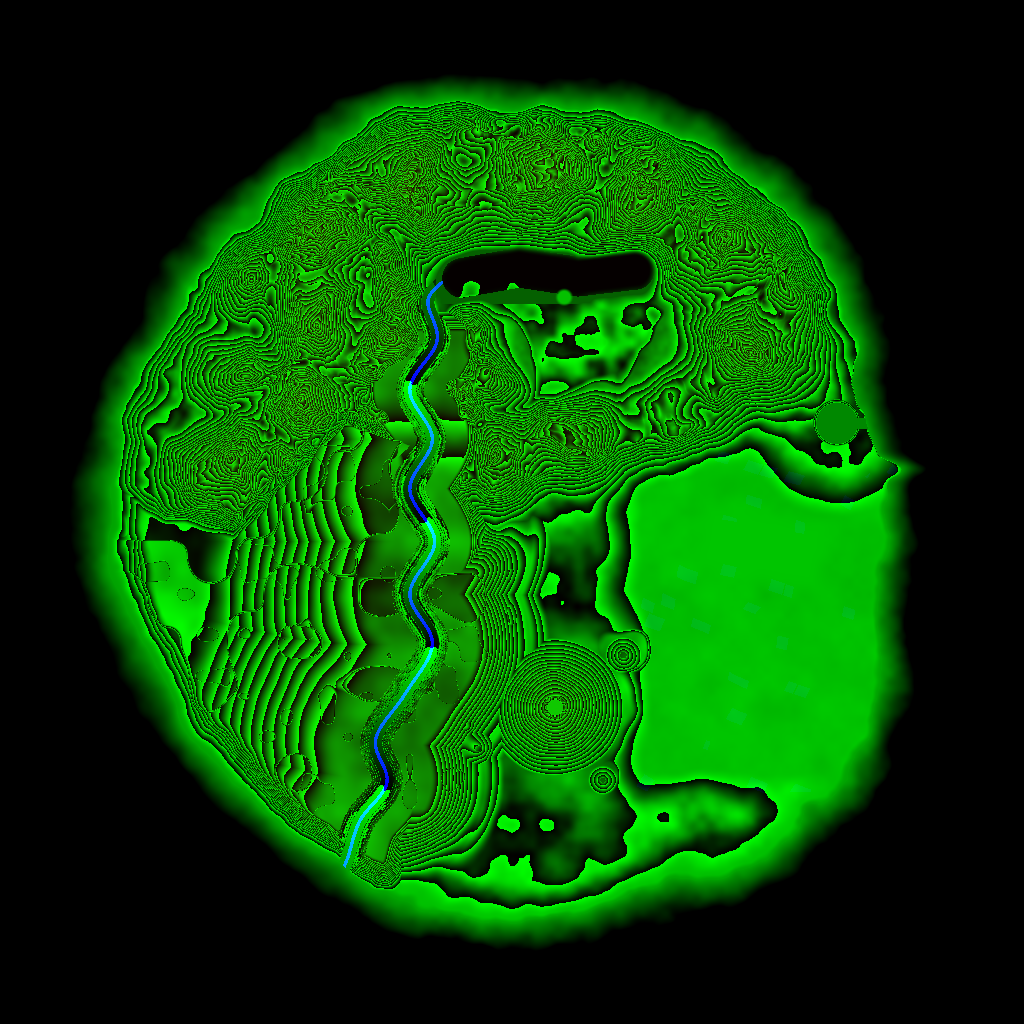
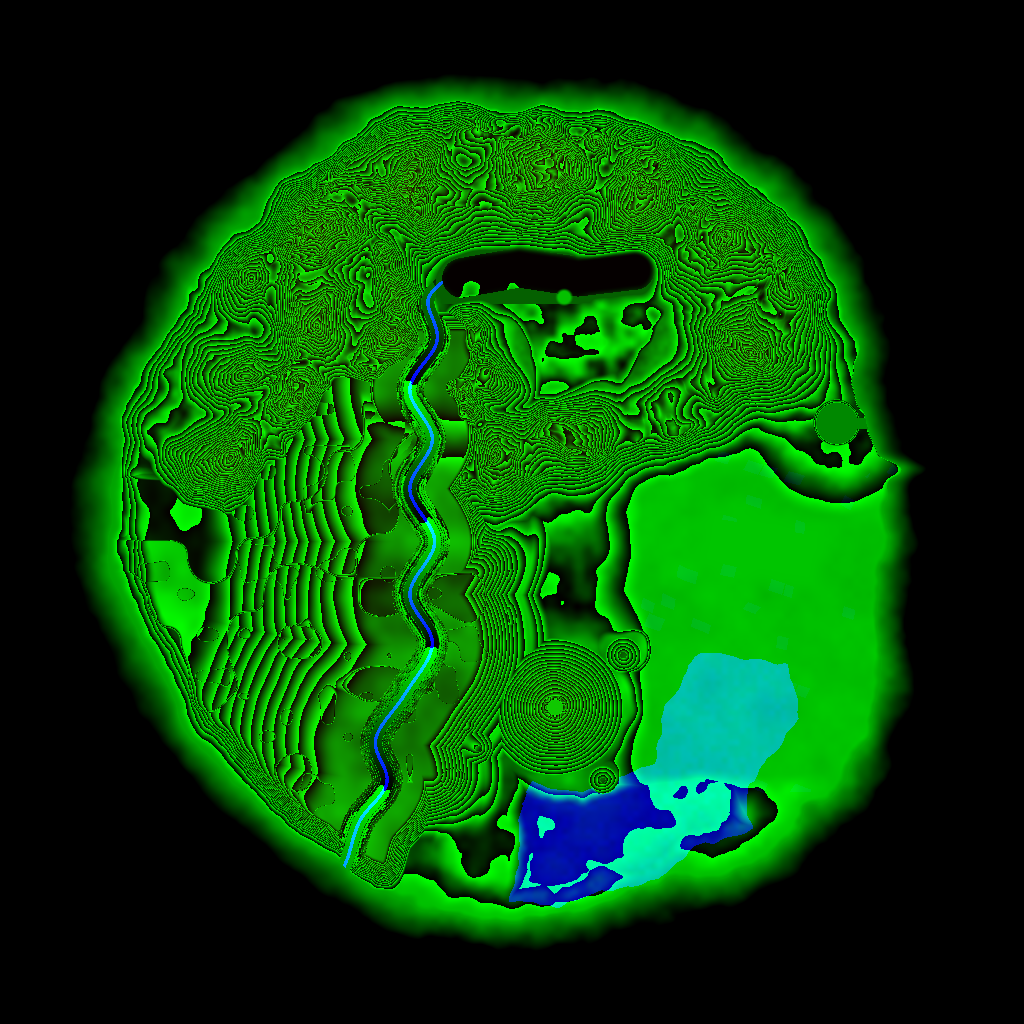
The owner's mark-up: no gap at the crest, one lava flow, the redwoods
The plateau now runs on north under the mountains' feet, so the two meet
with no trough or wall: the plateau leads up to the mountains and they
slope down onto it. One lava flow, down the volcano's west side, fanning
into three running streams at the sea. The redwoods fill the ground the
owner ringed, south and east of the volcano, 300 ft tall, on gentle
ground with no bank at the tree line. Forests are painted as trees: a
field of crowns on top, trunks under the canopy at the edges.

Claude-Session: https://claude.ai/code/session_01YZtgbdpC85BipirPAJzuos

Changed region(s): [[0.375, 0.625, 0.7812, 0.9062], [0.0938, 0.3438, 0.4062, 0.5312]]

diff --git a/tests/island.test.js b/tests/island.test.js
@@ -167,7 +167,9 @@ test('island: the desert, its crest, the volcano and its lava lake, the cove and
     }
     assert.equal(last, 0, 'the flow reaches the sea');
   }
-  assert.equal(island.lavaAt(volcano.north - 3000, volcano.east + 3200), null, 'no lava off the flows');
+  assert.equal(region.flows.length, 3, 'one flow, in three streams');
+  assert.ok(region.flows.every((course) => course[course.length - 1][1] < volcano.east), 'down the west side');
+  assert.equal(island.lavaAt(volcano.north - 3000, volcano.east + 3200), null, 'no lava down the east side');
   // The cove: water a mile across, cliffs round it, its mouth open to the sea in the east.
   let across = 0;
   for (let e = cove.east - 1500; e < cove.east + 1500; e += 20) if (island.waterAt(cove.north + 300, e) === 0) across += 20;
@@ -326,7 +328,7 @@ test('island: with crashes on, flying into a mountain ends the flight; a scrape,
 test('island: with crashes on, any touch of the sea, the loch, the river or the lava ends the flight, however gentle', () => {
   const card = deriveCard(F4C);
   const river = region.river[30], bed = island.heightAt(river[0], river[1]);
-  const stream = region.flows[0][7];   // well down the western flow, on the low ground
+  const stream = region.flows[1][9];   // well down the middle stream, on the low ground
   const places = [
     ['the sea', { north: -22000, east: 0, feet: 12 }, 'water', 0],
     ['the loch', { north: castle.north + 800, east: castle.east - 1500, feet: loch.level / FT + 12 }, 'water', loch.level],
@@ -355,27 +357,35 @@ function nearestWood() {
   for (let r = 0; r < region.size; r++) for (let c = 0; c < region.size; c++) {
     if (!woods[r * region.size + c]) continue;
     const north = region.north0 - r * region.post, east = region.east0 + c * region.post, far = Math.hypot(north - base.north, east - (base.east - 4000));
-    if (woods[r * region.size + c] !== RIVER && (!best || far < best.far)) best = { north, east, far };
+    if (woods[r * region.size + c] * region.canopyStep < 30 && (!best || far < best.far)) best = { north, east, far };   // a farmland wood, not the river's mark or the redwoods
   }
   return best;
 }
 
-test('island: woods stand 40 feet tall, in the farmland, and keep off the airfield', () => {
+test('island: woods stand 40 feet tall in the farmland; the redwoods stand about 300 feet, south and east of the volcano', () => {
   const tall = island.canopyAt(wood.north, wood.east);
-  let posts = 0, onField = 0, elsewhere = 0, farmland = 0;
-  for (const { north, east, post } of land()) {
-    const farm = island.countryAt(north, east).farm > 0.5;
-    if (farm) farmland++;
+  let posts = 0, onField = 0, elsewhere = 0, farmland = 0, giants = 0, tallest = 0, shortest = Infinity, onLava = 0, north = -Infinity;
+  for (const { north: n, east: e, post } of land()) {
+    const kind = island.countryAt(n, e);
+    if (kind.farm > 0.5) farmland++;
     if (!woods[post] || woods[post] === RIVER) continue;
-    posts++;
-    if (onAirfield(base, north, east, 300)) onField++;
-    if (!farm) elsewhere++;
+    const trees = woods[post] * region.canopyStep;
+    if (onAirfield(base, n, e, 300)) onField++;
+    if (trees > 30) {
+      giants++; tallest = Math.max(tallest, trees); shortest = Math.min(shortest, trees); north = Math.max(north, n);
+      if (kind.lava > 0.5) onLava++;
+    } else { posts++; if (kind.farm < 0.5) elsewhere++; }
   }
-  console.log(`  Woods: ${(tall / FT).toFixed(0)} ft tall, ${((100 * posts) / farmland).toFixed(1)}% of the farmland`);
+  const sqMiles = (giants * region.post ** 2) / NM ** 2;
+  console.log(`  Woods: ${(tall / FT).toFixed(0)} ft tall, ${((100 * posts) / farmland).toFixed(1)}% of the farmland. Redwoods: ${Math.round(shortest / FT)} to ${Math.round(tallest / FT)} ft tall, ${sqMiles.toFixed(0)} square miles`);
   assert.ok(Math.abs(tall / FT - 40) < 1);
   assert.ok(posts / farmland > 0.02 && posts / farmland < 0.1);
-  assert.equal(onField, 0, 'none on the airfield or off the runway\'s ends');
+  assert.equal(onField, 0, 'no trees on the airfield or off the runway\'s ends');
   assert.ok(elsewhere / posts < 0.02, 'the farmland\'s woods are in the farmland');
+  assert.ok(shortest / FT > 240 && tallest / FT < 310 && sqMiles > 12 && sqMiles < 40, 'a forest of giants');
+  assert.equal(onLava, 0, 'none on the lava');
+  assert.ok(north < base.north - 3500, 'the redwoods stay south of the base');
+  assert.ok(island.canopyAt(-13000, 7000) > 60 && island.canopyAt(-9500, 9500) > 60, 'they fill the ground south and east of the volcano');
 });
 
 test('island: a wood is solid at its treetops, and the radar altimeter reads to them', () => {

diff --git a/src/render/terrain.js b/src/render/terrain.js
@@ -137,6 +137,29 @@ const fragmentShader = `${LAND_GLSL}
     c += vec3(1.0, 0.96, 0.82) * flash;
     return mix(c, haze, 0.4 * pow(1.0 - max(v.y, 0.0), 5.0));
   }
+  // A forest, made of trees. From above, its top is a field of round crowns, each its own green, with dark gaps
+  // between; on its steep sides, the edge of the wood, trunks stand in the shade under the crowns. "tall" is
+  // how tall the trees are here, "up" how high this point is above the ground, "slope" how steep the face is.
+  vec3 forest(float tall, float up, float slope, float far) {
+    float size = tall > 40.0 ? 24.0 : 11.0;                   // a crown's width: redwoods are big trees
+    vec2 cell = floor(wp.xz / size), best = vec2(9.0, 0.0);
+    for (int j = -1; j <= 1; j++) for (int i = -1; i <= 1; i++) {
+      vec2 k = cell + vec2(float(i), float(j));
+      float d = distance(wp.xz / size, k + 0.5 + 0.7 * (vec2(rand(k, 51.0), rand(k, 52.0)) - 0.5));
+      if (d < best.x) best = vec2(d, rand(k, 53.0));
+    }
+    vec3 dark = tall > 40.0 ? vec3(0.071, 0.196, 0.118) : vec3(0.110, 0.243, 0.125);
+    vec3 crown = mix(dark * 1.9, dark * 2.9 + vec3(0.02, 0.04, 0.0), best.y);          // each tree its own green
+    crown *= 1.0 - 0.35 * smoothstep(0.15, 0.55, best.x);                                // rounder: darker toward its rim
+    vec3 top = mix(dark, crown, 1.0 - smoothstep(0.5, 0.62, best.x));                    // dark between the crowns
+    top = mix(top, dark * 2.1, smoothstep(2500.0, 9000.0, far));                         // far off, one even green
+    if (slope < 0.7) return top;
+    // The side of the wood: trunks below, the crowns' skirt above.
+    float along = dot(wp.xz, vec2(0.71, 0.71)) / (size * 0.42), trunk = step(0.62, fract(along + 0.3 * rand(vec2(floor(along), 0.0), 54.0)));
+    vec3 bole = tall > 40.0 ? vec3(0.416, 0.243, 0.169) : vec3(0.290, 0.227, 0.165);
+    vec3 under = mix(vec3(0.035, 0.07, 0.045), bole, trunk * (1.0 - smoothstep(1200.0, 5000.0, far)));
+    return mix(under, top, smoothstep(0.5, 0.68, up / tall));
+  }
   // Running lava: how far the point is from the nearest flow's middle, and how far down that flow it is.
   vec2 toFlow(vec2 xz) {
     float best = 1.0e9, along = 0.0;
@@ -193,7 +216,7 @@ const fragmentShader = `${LAND_GLSL}
       // Chalk on the cliffs round the cove; sand at the shore, wide on the desert's coast.
       if (distance(wp.xz, cove.xy) < cove.z && slope > 0.5 && h < 160.0) c = vec3(0.910, 0.902, 0.863);
       if (h < 3.0 + 9.0 * kind.r) c = mix(vec3(0.910, 0.847, 0.675), c, clamp((h - 1.5 - 5.0 * kind.r) / 3.0, 0.0, 1.0));
-      if (here.y > 1.0) c = vec3(0.173, 0.329, 0.173);                                       // a wood: its top and its sides
+      if (here.y > 1.0) c = forest(max(max(g00.y, g10.y), max(g01.y, g11.y)), here.y, slope, far);   // a wood or the redwoods: how tall the trees are, and how far up them this point is
       c *= 0.68 + 0.5 * max(dot(n, sun), 0.0);
       // Running lava, down each flow from the crater to the sea: a bright stream between dark banks, its crust
       // breaking into plates that ride downhill.

diff --git a/docs/island.md b/docs/island.md
@@ -61,15 +61,15 @@ Ours is far simpler: plain shapes, dark grey stone and near-black roofs, a few t
 
 **The canyon.** The river from the loch runs south down the island to the south-west coast through a canyon inspired by the Grand Canyon, cut into a high desert plateau. It is built to be fun to fly through: deep enough to be below the rim the whole way, wide enough to follow at speed, winding, with a tight stretch as a dare. The starting figures are about 3,000 feet deep, three-quarters of a mile wide at the rim and a quarter mile at the river, and about 12 miles long; they are tuned by flying it.
 
-**The crest.** Where the mountains stop above the desert in the west: a long, steep wall a few thousand feet high, after Sandia Crest near Albuquerque and Moriarty, New Mexico, famous for sailplane flying. Shaped as a proper ridge, so that if a glider and rising air are ever added, this is the place for them. That is an idea for later, not part of this build.
+**The crest.** Where the mountains meet the desert in the west, after Sandia Crest near Albuquerque and Moriarty, New Mexico, famous for sailplane flying. There is no gap and no wall between the two: the plateau leads up to the mountains, and the mountains slope down onto the plateau. It is the long mountain front a sailplane could work, if a glider and rising air are ever added. That is an idea for later, not part of this build.
 
 **The Strip.** On the desert below the crest, west of the canyon: the Las Vegas Strip and nothing else of the city. About a mile and a half of big hotels along one road. The recognizable ones are all there: a pyramid, a tall needle tower, a big wheel, a lake with fountains, an Eiffel Tower, an Arc de Triomphe, a Montgolfier balloon, and a casino that looks like Camelot. Plain slab hotels fill in between. The shapes are the famous ones; every name and sign is invented. Daytime only: the game has no night. No runway there.
 
 **The beaches.** Sandy beaches along the south-west coast.
 
-**The volcanoes park,** in the centre-south, after Hawaii's. One broad volcano about 4,000 feet high, with a crater to fly into and a glowing lava lake at the bottom, a few small cones beside it, and black lava fields running down to the south coast. No eruptions, smoke or ash for now.
+**The volcanoes park,** in the centre-south, after Hawaii's. One broad volcano about 4,000 feet high, with a crater to fly into and a glowing lava lake at the bottom, and a few small cones beside it. One lava flow, down its west side, fanning out to the south coast; lava runs in it, in glowing streams from the crater to the sea. No eruptions, smoke or ash for now.
 
-**The redwoods,** in the south. A forest of giant trees about 300 feet tall, to fly over. It has to look like a forest made of trees, not a green block.
+**The redwoods,** south and east of the volcano, between it, the fields and the south coast: the ground the owner ringed on the map. A forest of giant trees about 300 feet tall, to fly over. It has to look like a forest made of trees, not a green block.
 
 **The fields, in the east.** Flat East Anglian farmland: a patchwork of four-sided fields, with tracks between them and lines of trees.
 

diff --git a/CHANGELOG.md b/CHANGELOG.md
@@ -4,12 +4,13 @@ What changed in each version a player can see, newest first.
 
 ## 0.0.20
 
-- A new island, to the owner's own map. Mountains in an arc across the north round the loch; a canyon with a river from the loch to the south-west coast; a desert plateau with mesas in the west, under a mountain wall; a volcano in the south with a crater and a glowing lava lake; the fields and the air base in the east; a round cove a mile across on the east coast.
+- A new island, to the owner's own map. Mountains in an arc across the north round the loch; a canyon with a river from the loch to the south-west coast; a desert plateau with mesas in the west, running up into the mountains; a volcano in the south with a crater and a glowing lava lake; the fields and the air base in the east; a round cove a mile across on the east coast.
 - New paint for the new country: red and tan rock in bands, black lava, wide sand on the desert's shore, white chalk round the cove.
-- Lava runs out of the crater and down the volcano in two glowing streams to the sea, its crust riding downhill.
+- Lava runs out of the crater and down the volcano's west side, fanning into three glowing streams to the sea, its crust riding downhill.
+- The redwoods: a forest of giants about 300 feet tall, south and east of the volcano. Solid at the treetops, like the woods. Woods and redwoods are now painted as trees: a field of crowns on top, trunks at the edges.
 - Water you can judge your height over: patches of swell and small flecks on the sea, the loch and the river, the sun's glitter toward the sun, and the sky's colour in it at a low angle.
 - With crashes on, the river and the lava (the lake and the streams) end a flight at any touch, like the sea and the loch.
-- Still to come: forests that look like trees, the redwoods, and every landmark (castle, viaduct, the Strip, the Door).
+- Still to come: tree crowns that stand up in three dimensions near the jet, and every landmark (castle, viaduct, the Strip, the Door).
 
 ## 0.0.19
 
